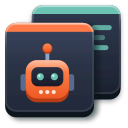
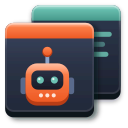
feat(brand): give the cagents panes ceditor's top edge
The cagents panes had a thin flat strip where ceditor's pages have a
taller glossy gradient edge, so the pair didn't read as a set. Use the
coral and teal gradients and size the edge and corner radius so both
icons render them alike at 128 px.

diff --git a/docs/brand/README.md b/docs/brand/README.md
@@ -25,7 +25,9 @@ mark on a dark pane against a dark page with a teal top.
 
 - Panes and pages: obsidian face (`#3B4660` → `#2A3245` → `#222939`, back pane
   `#303A50` → `#1C2230`) over a 4-5 px darker edge (`#11151F`), with a white rim
-  light and a coloured top edge (8 px on panes, 15 px on pages; `rx = 8-10`).
+  light and a glossy gradient top edge. Panes and pages share one top edge and
+  corner radius as rendered at 128 px, about 15.5 px tall with an 8 px radius,
+  so the two icons read as a set.
   Everything casts a soft shadow; the cagents front pane casts it to the right
   onto the pane behind.
 - Robot: coral head (`#FF8A55` → `#EE5A24`, side `#B83D16`) with a dark visor,
